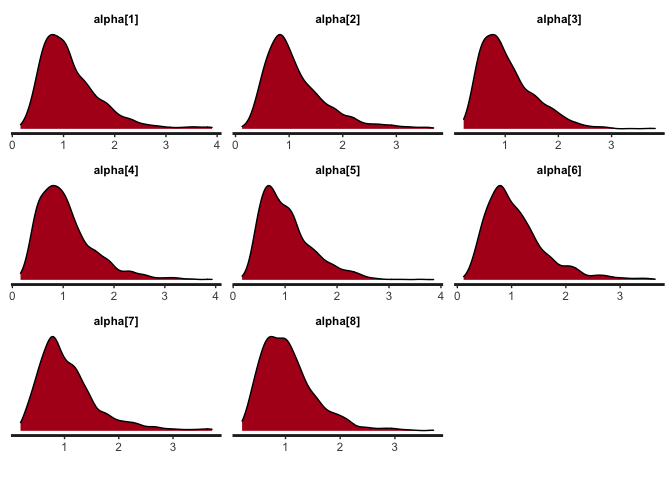
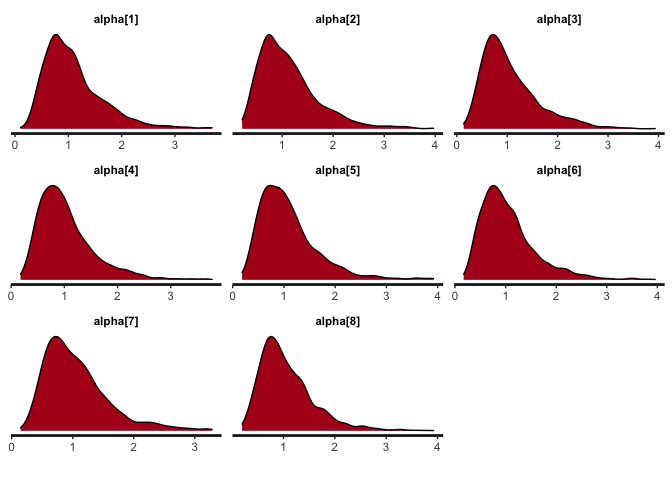
Update README file

diff --git a/README.md b/README.md
@@ -10,7 +10,10 @@
 The goal of fcirt is to estimate forced choice models using Bayesian
 method. Specifically, the Multi-Unidimensional Pairwise Preference
 (MUPP) model is estimated using the R package **rstan** that utilizes
-the Hamiltonian Monte Carlo sampling algorithm.
+the Hamiltonian Monte Carlo sampling algorithm. Four functions (i.e.,
+fcirt( ), extract( ), information( ), and bayesplot( ) are provided for
+model estimation, results extraction, item and test information
+computation, and Bayesian diagnostic plottings, respectively.
 
 ## Installation
 
@@ -41,7 +44,7 @@ pairmap <- matrix(pairmap,ncol = 2)
 # 1.3 A column vector mapping each statement to each trait.
 ind <- c(1,2,1,2,1,2,2,1)
 
-# 1.4 A three-column matrix containing initial values for the three statement parameters (alpha, delta, tau) respectively. If using the direct MUPP estimation approach, 1 and -1 for alphas and taus are recommended and -1 or 1 for deltas are recommended depending on the signs of the statements. If using the two-step estimation approach, pre-estimated statement parameters are used as the initial values. The R package bmggum (Tu et al., 2021) can be used to estimate statement parameters for the two-step approach. 
+# 1.4 A three-column matrix containing initial values for the three statement parameters (alpha, delta, tau) respectively. If using the direct MUPP estimation approach, 1 and -1 for alphas and taus are recommended and -1 or 1 for deltas are recommended depending on the signs of the statements. If using the two-step estimation approach, pre-estimated statement parameters are used as the initial values. The R package **bmggum** (Tu et al., 2021) can be used to estimate statement parameters for the two-step approach. 
 ParInits <- c(1, 1, 1, 1, 1, 1, 1, 1, 1, -1, 1, 1, 1, -1, 1, 1, -1, -1, -1, -1, -1, -1, -1, -1)
 ParInits <- matrix(ParInits, ncol = 3)
 
@@ -58,21 +61,30 @@ theta <- matrix(theta, nrow=2)
 theta <- t(theta)
 # theta estimates in p*trait matrix format
 theta
-#>               [,1]         [,2]
-#>  [1,]  0.031691057  0.046568218
-#>  [2,] -0.073772791  0.043929525
-#>  [3,] -0.029610641  0.008754898
-#>  [4,] -0.020142885 -0.015084939
-#>  [5,] -0.008128190 -0.024002590
-#>  [6,] -0.027781033  0.002016315
-#>  [7,]  0.024884600 -0.006782208
-#>  [8,]  0.025812042 -0.034377790
-#>  [9,]  0.029627509 -0.013221226
-#> [10,]  0.003353149  0.016948932
+#>               [,1]        [,2]
+#>  [1,] -0.005492529  0.03100827
+#>  [2,]  0.036600239  0.04897910
+#>  [3,]  0.016145111  0.02283466
+#>  [4,]  0.022967615 -0.05418947
+#>  [5,]  0.020110092  0.01228900
+#>  [6,]  0.008804364  0.04528973
+#>  [7,] -0.038997421 -0.02971426
+#>  [8,] -0.016192071 -0.04096139
+#>  [9,] -0.023259862 -0.02325479
+#> [10,] -0.039994830 -0.06424932
 
 ## Step 4: Plottings
-# 5.1 Obtain the density plots for alpha
+# 4.1 Obtain the density plots for alpha
 bayesplot(x=mod, pars='alpha', plot='density', inc_warmup=FALSE)
 ```
 
 <img src="man/figures/README-example-1.png" width="70%" />
+
+``` r
+
+## Step 5: Item information 
+# 5.1 Obtain item information for item 1
+info_1 <- information(x=mod, approach=1, information=1, items=1)
+info_1
+#> [1] 0.006097406
+```
